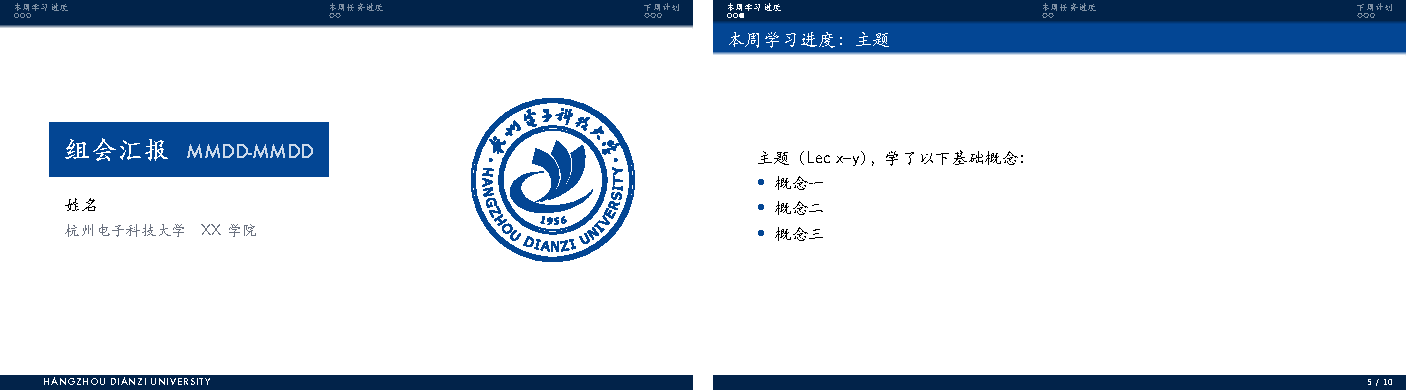
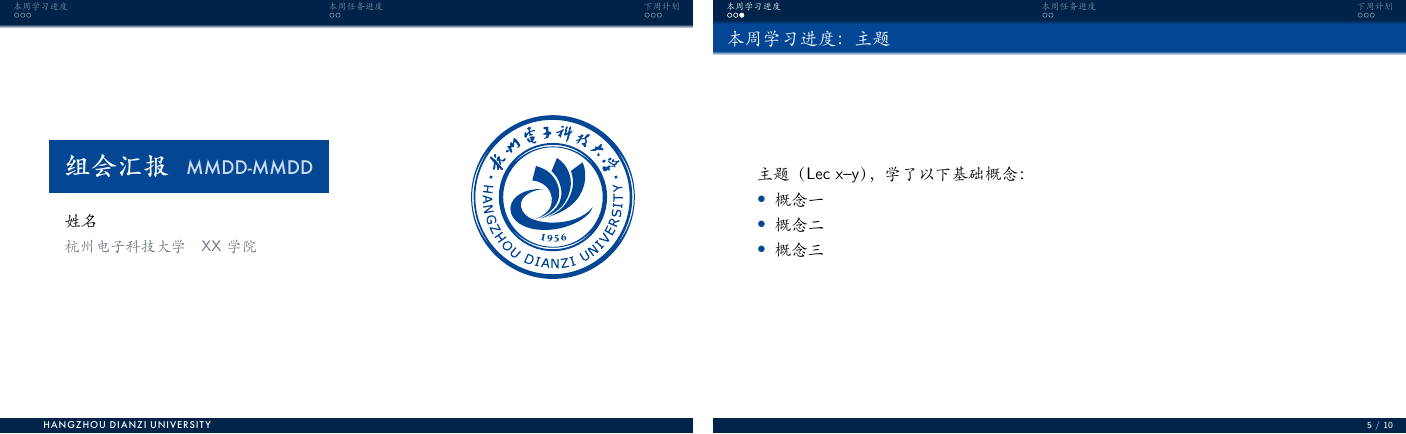
模版改为 16:10，适配 MacBook 全屏

diff --git a/main.tex b/main.tex
@@ -1,6 +1,6 @@
 % 周报模版：主题已注册到 ~/Library/texmf，复制本文件（和 fig/）到 周报/MMDD-MMDD 后修改即可
 % 编译：xelatex main.tex 跑两遍
-\documentclass[aspectratio=169]{ctexbeamer}
+\documentclass[aspectratio=1610]{ctexbeamer}
 \usetheme{HDU}
 \usepackage{booktabs}
 

diff --git a/README.md b/README.md
@@ -9,7 +9,7 @@
 ## 和原版的区别
 
 - 配色换成校徽蓝 `#034694`，校徽换成杭电的
-- 16:9，中文全部用楷体
+- 16:10（适配 MacBook 全屏），中文全部用楷体
 - 封面重新排了：左边蓝色标题块，右边校徽，底部一条校名色带
 - 页脚只留页码，去掉了右下角的导航小图标
 - 列表圆点和上一行文字左对齐
@@ -28,7 +28,7 @@ xelatex main.tex
 自己新建文档的话，只需要 `beamerthemeHDU.sty` 和 `beamerthemeHDU-logo.pdf` 两个文件：
 
 ```latex
-\documentclass[aspectratio=169]{ctexbeamer}
+\documentclass[aspectratio=1610]{ctexbeamer}
 \usetheme{HDU}
 ```
 
